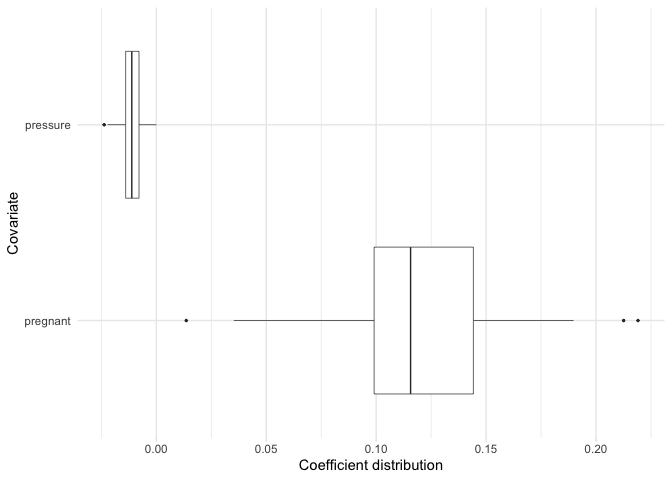
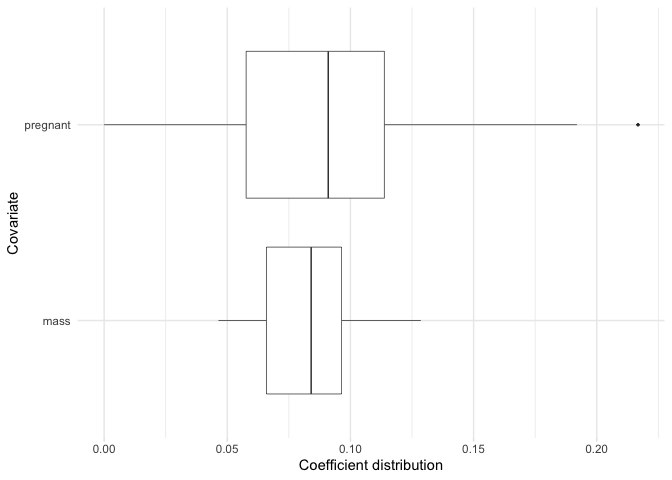
Update README sections :book:

diff --git a/README.md b/README.md
@@ -75,7 +75,7 @@ test <- PimaIndiansDiabetes[-train_idx, ]
 
 model <- bolasso(
   diabetes ~ .,
-  data = PimaIndiansDiabetes,
+  data = train,
   n.boot = 100,
   progress = FALSE,
   family = "binomial"
@@ -93,19 +93,19 @@ cross-validation error.
 
 ``` r
 selected_variables(model, threshold = 0.95, method = "vip", select = "lambda.min")
-#> # A tibble: 100 × 6
-#>    id     pregnant glucose pressure   mass pedigree
-#>    <chr>     <dbl>   <dbl>    <dbl>  <dbl>    <dbl>
-#>  1 boot1    0.0997  0.0341 -0.0182  0.0744    0.629
-#>  2 boot2    0.118   0.0406 -0.0133  0.0659    1.45 
-#>  3 boot3    0.127   0.0354 -0.00767 0.0894    0.534
-#>  4 boot4    0.172   0.0349 -0.0118  0.0658    0.950
-#>  5 boot5    0.123   0.0330 -0.0121  0.0760    0.667
-#>  6 boot6    0.152   0.0342 -0.0112  0.0777    0.828
-#>  7 boot7    0.0689  0.0374 -0.0119  0.0874    0.748
-#>  8 boot8    0.145   0.0338 -0.0124  0.0881    0.977
-#>  9 boot9    0.155   0.0331 -0.00740 0.0623    1.52 
-#> 10 boot10   0.144   0.0403 -0.00748 0.0519    0.651
+#> # A tibble: 100 × 5
+#>    id     pregnant glucose   mass pedigree
+#>    <chr>     <dbl>   <dbl>  <dbl>    <dbl>
+#>  1 boot1    0.0957  0.0428 0.0811    0.845
+#>  2 boot2    0       0.0367 0.0850    0.193
+#>  3 boot3    0.0713  0.0258 0.0833    0.667
+#>  4 boot4    0.0908  0.0349 0.0649    0.573
+#>  5 boot5    0.217   0.0462 0.0680    0.813
+#>  6 boot6    0.0930  0.0305 0.0814    0.372
+#>  7 boot7    0.0516  0.0404 0.0875    1.18 
+#>  8 boot8    0.0582  0.0327 0.0567    0.722
+#>  9 boot9    0.0617  0.0360 0.104     0.353
+#> 10 boot10   0.0389  0.0353 0.0721    0    
 #> # ℹ 90 more rows
 ```
 
@@ -116,7 +116,7 @@ want to simply return only the variable names, you can add the
 
 ``` r
 selected_variables(model, 0.95, "vip", var_names_only = TRUE)
-#> [1] "pregnant" "glucose"  "pressure" "mass"     "pedigree"
+#> [1] "pregnant" "glucose"  "mass"     "pedigree"
 ```
 
 We can compare the selected variables using the VIP method to the QNT
@@ -125,7 +125,7 @@ interval that does not contain 0:
 
 ``` r
 selected_variables(model, 0.95, "qnt", var_names_only = TRUE)
-#> [1] "pregnant" "glucose"  "pressure" "mass"     "pedigree"
+#> [1] "pregnant" "glucose"  "mass"     "pedigree"
 ```
 
 Note that the number of selected variables with QNT will always be \<=
@@ -151,22 +151,22 @@ selection_thresholds(model, select = "lambda.min")
 #> # A tibble: 16 × 5
 #>    covariate method threshold  alpha covariate_id
 #>    <chr>     <chr>      <dbl>  <dbl>        <int>
-#>  1 age       QNT         0.73 0.27              8
+#>  1 age       QNT         0.77 0.23              8
 #>  2 glucose   QNT         1    0                 2
-#>  3 insulin   QNT         0.55 0.45              5
+#>  3 insulin   QNT         0.37 0.63              5
 #>  4 mass      QNT         1    0                 6
-#>  5 pedigree  QNT         1    0                 7
-#>  6 pregnant  QNT         1    0                 1
-#>  7 pressure  QNT         0.95 0.0500            3
+#>  5 pedigree  QNT         0.95 0.0500            7
+#>  6 pregnant  QNT         0.99 0.0100            1
+#>  7 pressure  QNT         0.83 0.17              3
 #>  8 triceps   QNT         0    1                 4
-#>  9 age       VIP         0.86 0.14              8
+#>  9 age       VIP         0.9  0.1               8
 #> 10 glucose   VIP         1    0                 2
-#> 11 insulin   VIP         0.82 0.18              5
+#> 11 insulin   VIP         0.76 0.24              5
 #> 12 mass      VIP         1    0                 6
-#> 13 pedigree  VIP         1    0                 7
-#> 14 pregnant  VIP         1    0                 1
-#> 15 pressure  VIP         0.97 0.0300            3
-#> 16 triceps   VIP         0.67 0.33              4
+#> 13 pedigree  VIP         0.97 0.0300            7
+#> 14 pregnant  VIP         0.99 0.0100            1
+#> 15 pressure  VIP         0.93 0.0700            3
+#> 16 triceps   VIP         0.59 0.41              4
 ```
 
 ### Coefficients
@@ -181,18 +181,18 @@ fold, and the values are the corresponding estimated coefficients.
 ``` r
 tidy(model, select = "lambda.min")
 #> # A tibble: 100 × 10
-#>    id     Intercept pregnant glucose pressure   triceps  insulin   mass pedigree
-#>    <chr>      <dbl>    <dbl>   <dbl>    <dbl>     <dbl>    <dbl>  <dbl>    <dbl>
-#>  1 boot1      -7.61   0.0997  0.0341 -0.0182   0.00410  -2.66e-3 0.0744    0.629
-#>  2 boot2      -9.01   0.118   0.0406 -0.0133   0.0140   -2.44e-3 0.0659    1.45 
-#>  3 boot3      -8.67   0.127   0.0354 -0.00767 -0.00250  -9.96e-4 0.0894    0.534
-#>  4 boot4      -7.29   0.172   0.0349 -0.0118  -0.00461  -3.65e-4 0.0658    0.950
-#>  5 boot5      -7.78   0.123   0.0330 -0.0121  -0.00291  -6.54e-4 0.0760    0.667
-#>  6 boot6      -7.73   0.152   0.0342 -0.0112   0.00558  -1.58e-3 0.0777    0.828
-#>  7 boot7      -7.99   0.0689  0.0374 -0.0119  -0.000679 -1.36e-3 0.0874    0.748
-#>  8 boot8      -8.14   0.145   0.0338 -0.0124  -0.00252  -3.05e-4 0.0881    0.977
-#>  9 boot9      -7.69   0.155   0.0331 -0.00740 -0.00191  -8.19e-4 0.0623    1.52 
-#> 10 boot10     -7.60   0.144   0.0403 -0.00748  0        -8.98e-4 0.0519    0.651
+#>    id     Intercept pregnant glucose pressure  triceps   insulin   mass pedigree
+#>    <chr>      <dbl>    <dbl>   <dbl>    <dbl>    <dbl>     <dbl>  <dbl>    <dbl>
+#>  1 boot1      -9.91   0.0957  0.0428 -0.00212 -0.00254 -0.00429  0.0811    0.845
+#>  2 boot2      -7.77   0       0.0367 -0.00859 -0.00789 -0.00100  0.0850    0.193
+#>  3 boot3      -7.26   0.0713  0.0258 -0.00562  0       -0.000884 0.0833    0.667
+#>  4 boot4      -7.92   0.0908  0.0349 -0.0115   0.0153   0        0.0649    0.573
+#>  5 boot5      -8.48   0.217   0.0462 -0.0128  -0.00260 -0.00137  0.0680    0.813
+#>  6 boot6      -8.20   0.0930  0.0305 -0.00585  0.0121  -0.00186  0.0814    0.372
+#>  7 boot7     -10.2    0.0516  0.0404  0.00272 -0.00765 -0.00179  0.0875    1.18 
+#>  8 boot8      -7.29   0.0582  0.0327 -0.00830  0       -0.00185  0.0567    0.722
+#>  9 boot9      -8.96   0.0617  0.0360 -0.0201   0       -0.000922 0.104     0.353
+#> 10 boot10     -8.23   0.0389  0.0353  0        0        0        0.0721    0    
 #> # ℹ 90 more rows
 #> # ℹ 1 more variable: age <dbl>
 ```
@@ -245,7 +245,7 @@ variables.
 ``` r
 plot_selected_variables(
   model,
-  covariates = c(pregnant, pressure),
+  covariates = c(pregnant, mass),
   threshold = 0.95,
   method = "vip",
   select = "lambda.min"
@@ -265,16 +265,16 @@ as_tibble(predict(model, test, select = "lambda.min", type = "response"))
 #> # A tibble: 230 × 100
 #>     boot1  boot2  boot3  boot4  boot5  boot6  boot7  boot8  boot9 boot10 boot11
 #>     <dbl>  <dbl>  <dbl>  <dbl>  <dbl>  <dbl>  <dbl>  <dbl>  <dbl>  <dbl>  <dbl>
-#>  1 0.772  0.823  0.663  0.700  0.701  0.682  0.662  0.682  0.643  0.697  0.769 
-#>  2 0.794  0.855  0.765  0.879  0.792  0.801  0.786  0.803  0.834  0.890  0.728 
-#>  3 0.0464 0.0300 0.0400 0.0541 0.0486 0.0487 0.0539 0.0445 0.0394 0.0528 0.0479
-#>  4 0.665  0.746  0.704  0.733  0.755  0.604  0.710  0.725  0.559  0.785  0.851 
-#>  5 0.652  0.721  0.586  0.682  0.658  0.555  0.584  0.622  0.592  0.696  0.703 
-#>  6 0.294  0.334  0.333  0.303  0.328  0.327  0.403  0.370  0.271  0.279  0.421 
-#>  7 0.207  0.145  0.201  0.279  0.225  0.210  0.183  0.215  0.201  0.243  0.169 
-#>  8 0.348  0.252  0.316  0.352  0.357  0.270  0.238  0.324  0.269  0.269  0.337 
-#>  9 0.744  0.680  0.741  0.752  0.740  0.687  0.707  0.732  0.633  0.725  0.781 
-#> 10 0.0457 0.0388 0.0401 0.0707 0.0544 0.0506 0.0569 0.0522 0.0590 0.0659 0.0428
+#>  1 0.818  0.635  0.634  0.729  0.716  0.789  0.735  0.699  0.755  0.676  0.628 
+#>  2 0.877  0.736  0.631  0.724  0.937  0.698  0.811  0.767  0.701  0.715  0.784 
+#>  3 0.0276 0.0700 0.0704 0.0567 0.0338 0.0625 0.0292 0.0556 0.0380 0.0715 0.0682
+#>  4 0.578  0.809  0.630  0.891  0.722  0.773  0.729  0.686  0.861  0.896  0.579 
+#>  5 0.697  0.625  0.531  0.684  0.683  0.654  0.690  0.646  0.683  0.689  0.543 
+#>  6 0.262  0.435  0.439  0.457  0.214  0.474  0.379  0.305  0.418  0.478  0.296 
+#>  7 0.218  0.196  0.211  0.149  0.256  0.214  0.168  0.197  0.157  0.202  0.258 
+#>  8 0.403  0.276  0.343  0.226  0.261  0.395  0.337  0.308  0.343  0.313  0.309 
+#>  9 0.830  0.744  0.669  0.622  0.786  0.743  0.768  0.675  0.778  0.733  0.682 
+#> 10 0.0296 0.0682 0.0695 0.0590 0.0427 0.0523 0.0382 0.0642 0.0342 0.0683 0.0710
 #> # ℹ 220 more rows
 #> # ℹ 89 more variables: boot12 <dbl>, boot13 <dbl>, boot14 <dbl>, boot15 <dbl>,
 #> #   boot16 <dbl>, boot17 <dbl>, boot18 <dbl>, boot19 <dbl>, boot20 <dbl>,
@@ -299,16 +299,16 @@ tibble(
 #> # A tibble: 230 × 1
 #>    predictions
 #>          <dbl>
-#>  1      0.701 
-#>  2      0.790 
-#>  3      0.0479
-#>  4      0.724 
-#>  5      0.631 
-#>  6      0.371 
-#>  7      0.205 
-#>  8      0.311 
+#>  1      0.696 
+#>  2      0.744 
+#>  3      0.0533
+#>  4      0.747 
+#>  5      0.623 
+#>  6      0.397 
+#>  7      0.196 
+#>  8      0.309 
 #>  9      0.722 
-#> 10      0.0532
+#> 10      0.0536
 #> # ℹ 220 more rows
 ```
 
@@ -426,18 +426,10 @@ model_fast_preds <- ifelse(
   no = 0
 )
 truth <- as.integer(test$diabetes) - 1
-
-cat(
-  "Standard Bolasso accuracy:",
-  round(100*sum(model_standard_preds == truth)/length(truth), 2),
-  "%\n",
-  "\rFast Bolasso accuracy:",
-  round(100*sum(model_fast_preds == truth)/length(truth), 2),
-  "%\n"
-)
-#> Standard Bolasso accuracy: 77.39 %
-#>  Fast Bolasso accuracy: 76.52 %
 ```
+
+    #> Standard Bolasso accuracy: 77.39 %
+    #>  Fast Bolasso accuracy: 78.7 %
 
 It’s important to note that fast bolasso should be thought of more as a
 rough-and-ready algorithm that is better for quick iteration and might
@@ -471,20 +463,46 @@ time_sequential <- system.time({
     diabetes ~ .,
     data = train,
     n.boot = 1000,
-    progress = TRUE,
+    progress = FALSE,
     family = "binomial"
   )
 })
-
-cat(
-  "Parallel bolasso time (seconds):",
-  round(time_parallel[[3]], 3),
-  "\nSequential bolasso time (seconds):",
-  round(time_sequential[[3]], 3)
-)
-#> Parallel bolasso time (seconds): 10.667 
-#> Sequential bolasso time (seconds): 41.962
 ```
+
+    #> Parallel bolasso time (seconds): 10.827 
+    #> Sequential bolasso time (seconds): 41.749
+
+### Beyond the Lasso
+
+bolasso also allows us to fit penalized regression models beyond the
+Lasso. For example, suppose we want to fit a bootstrap-enhanced
+elasticnet model with a mixing parameter of 0.5 (an even mix of the
+Ridge and Lasso regularization terms). We can simply pass the underlying
+`glmnet::glmnet` argument `alpha = 0.5` through bolasso. The following
+code compares selected variables between the Lasso and elasticnet
+models.
+
+``` r
+lasso <- bolasso(
+  diabetes ~ .,
+  data = train,
+  n.boot = 100,
+  progress = FALSE,
+  family = "binomial"
+)
+
+elnet <- bolasso(
+  diabetes ~ .,
+  data = train,
+  n.boot = 100,
+  progress = FALSE,
+  family = "binomial",
+  alpha = 0.5
+)
+```
+
+    #> Lasso selected variables: pregnant glucose mass 
+    #> Elnet selected variables: pregnant glucose pressure mass pedigree age
 
 ## References
 
